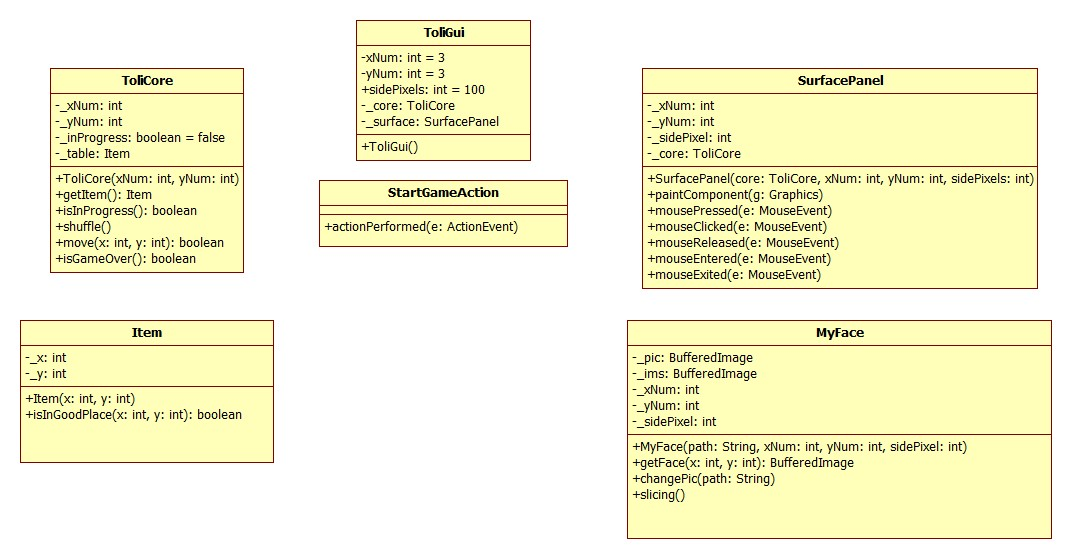
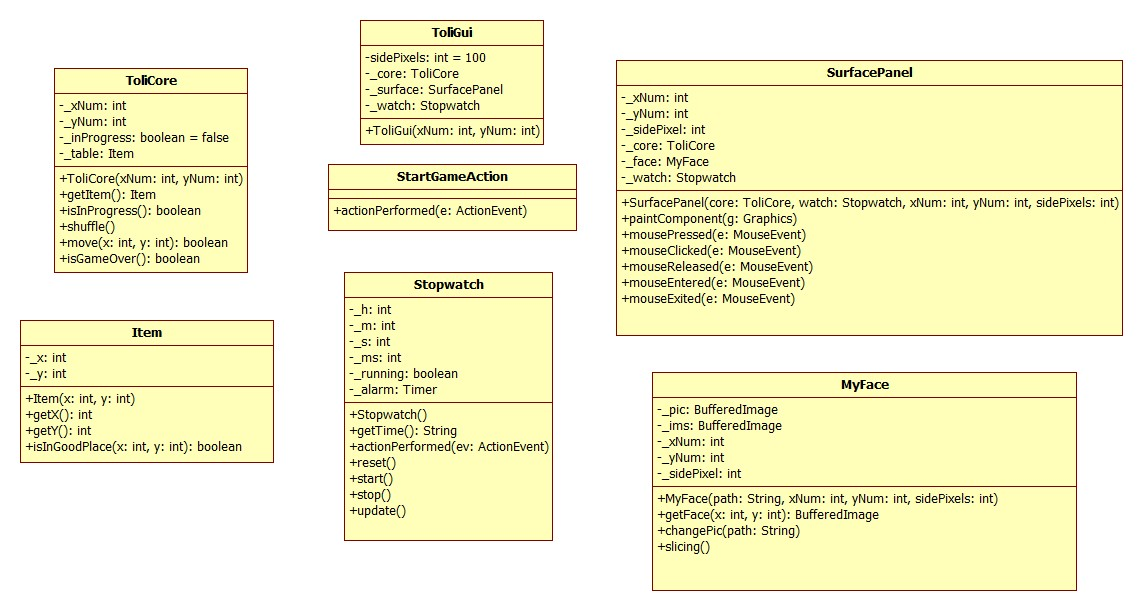
Stopwatch DONE

diff --git a/test1/src/hu/bakro/test1/ToliGui.java b/test1/src/hu/bakro/test1/ToliGui.java
@@ -21,12 +21,16 @@ import javax.swing.JPanel;
 
 public class ToliGui extends JPanel {
 	private static final int sidePixels = 100;
-	private ToliCore _core;
-	private SurfacePanel _surface;
+	private final ToliCore _core;
+	private final SurfacePanel _surface;
+	private final Stopwatch _watch;
 	
 	public ToliGui(int xNum, int yNum) {
+        // stopperora cimke
+        _watch = new Stopwatch();
+        
 		_core = new ToliCore(xNum, yNum);
-		_surface = new SurfacePanel(_core, xNum, yNum, sidePixels);
+		_surface = new SurfacePanel(_core, _watch, xNum, yNum, sidePixels);
 		
 		// jatek elkezdese/ujrakezdese gomb
         JButton newGameButton = new JButton("New Game");
@@ -36,6 +40,7 @@ public class ToliGui extends JPanel {
         JPanel controlPanel = new JPanel();
         controlPanel.setLayout(new FlowLayout());
         controlPanel.add(newGameButton);
+        controlPanel.add(_watch);
                 
         // panelhez az elemez hozzadasa
         this.setLayout(new BorderLayout());
@@ -46,12 +51,19 @@ public class ToliGui extends JPanel {
 	
 	public class StartGameAction implements ActionListener {
 		/**
-		 * Gomb lenyomasanak elkapasa es a jatek ujrakezdese.
+		 * Gomb lenyomasanak elkapasa es a jatek (ujra)kezdese.
 		 *
 		 * @param    e
 		**/
 		public void actionPerformed(ActionEvent e) {
+			// tabla megkevetese
 			_core.shuffle();
+			
+			// stopperora visszaallitasa es elinditasa
+			_watch.reset();
+			_watch.start();
+			
+			// rajzoltatas
 			_surface.repaint();
 		}
 	}
